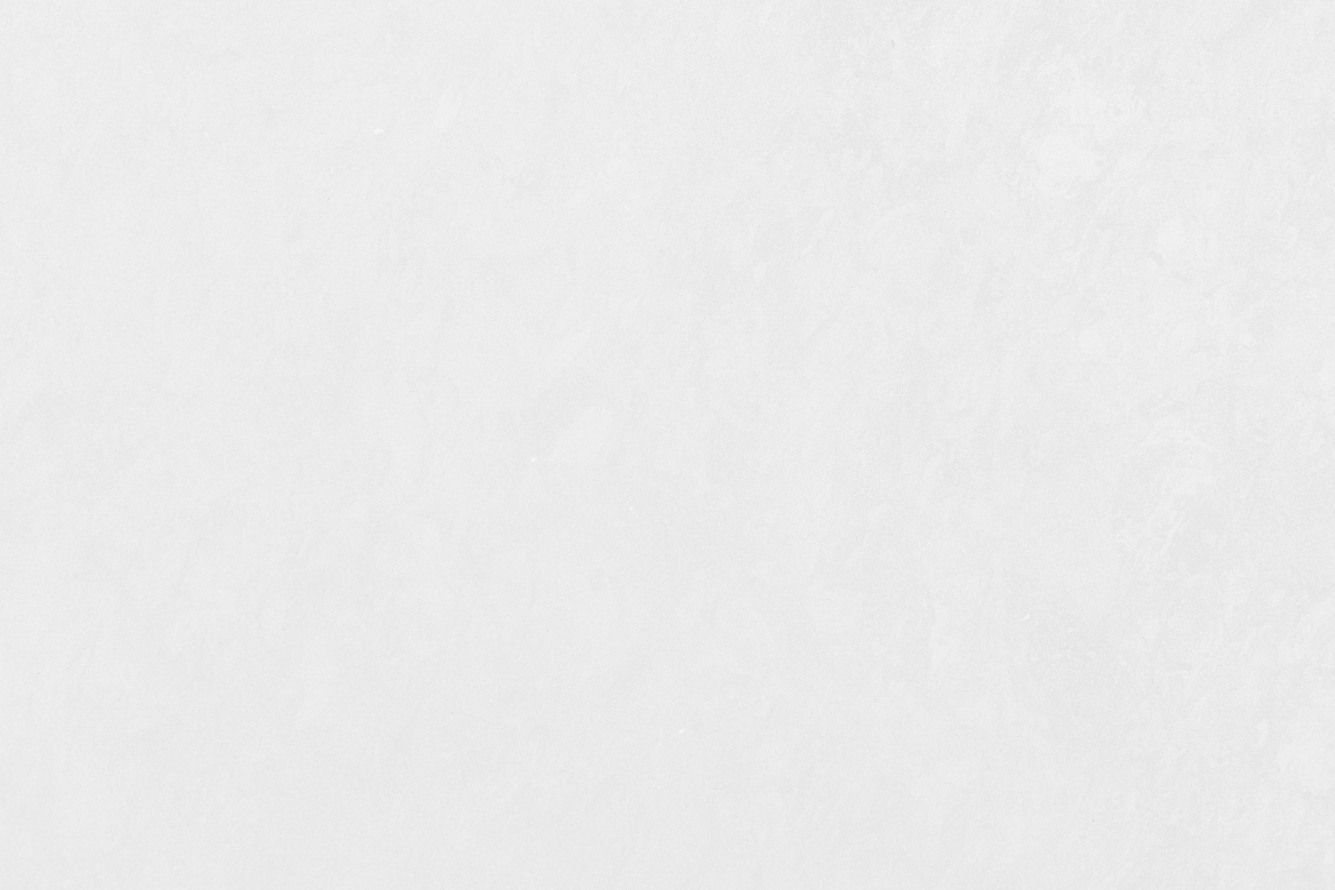
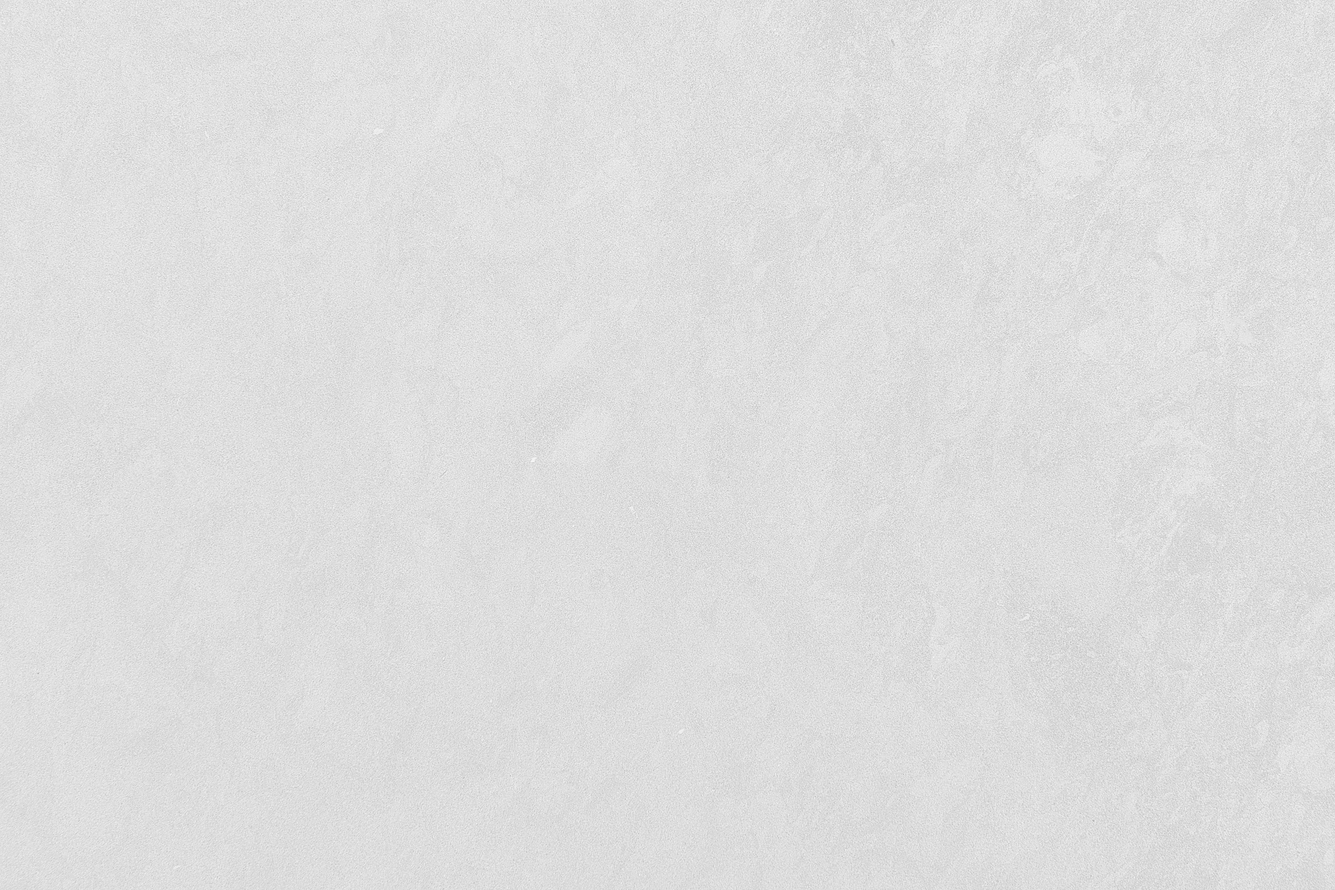
unified button sizing with tailwind and removed custom button css and enhanced stone texture definition on website

diff --git a/website/app/globals.css b/website/app/globals.css
@@ -831,46 +831,6 @@ h2[id] {
     margin-top: 8px;
     border-top: 1px solid #f4f4f5;
   }
-  .mobile-nav-actions .button-primary,
-  .mobile-nav-actions .mobile-region-button {
-    width: 100%;
-    height: 44px;
-    display: flex;
-    align-items: center;
-    justify-content: center;
-    gap: 8px;
-    border-radius: 999px;
-    font-size: 14px;
-    font-weight: 600;
-    text-decoration: none;
-    cursor: pointer;
-  }
-  .mobile-nav-actions .button-primary {
-    background: #000;
-    color: #fff;
-    border: none;
-  }
-  .mobile-nav-actions .button-primary:hover {
-    background: #27272a;
-  }
-  .mobile-nav-actions .button-primary:active {
-    transform: scale(0.98);
-  }
-  .mobile-nav-actions .mobile-region-button {
-    border: 1px solid #e4e4e7;
-    background: #fff;
-    color: #18181b;
-  }
-  .mobile-nav-actions .mobile-region-button:hover {
-    background: #f4f4f5;
-    border-color: #d4d4d8;
-  }
-  .mobile-nav-actions .mobile-region-button:active {
-    transform: scale(0.98);
-  }
-  .mobile-nav-actions .mobile-region-button svg {
-    flex-shrink: 0;
-  }
 }
 @media (max-width: 600px) {
   .qr-showcase-box {
@@ -882,9 +842,6 @@ h2[id] {
   }
   .hero-copy > p:first-child {
     font-size: 15px;
-  }
-  .hero-copy .button-primary {
-    width: 100%;
   }
   .flow-grid {
     grid-template-columns: minmax(0, 1fr);
@@ -1065,46 +1022,7 @@ h2[id] {
 .language-options label {
   cursor: pointer;
 }
-.region-dialog-footer {
-  display: flex;
-  gap: 12px;
-  padding: 16px 24px;
-  border-top: 1px solid #f4f4f5;
-  background: #fff;
-}
-.region-dialog-footer button {
-  flex: 1;
-  height: 44px;
-  border-radius: 999px;
-  font-size: 14px;
-  font-weight: 600;
-  cursor: pointer;
-  transition: all 150ms ease;
-}
-.region-dialog-footer .button-outline {
-  border: 1px solid #e4e4e7;
-  background: #fff;
-  color: #27272a;
-}
-.region-dialog-footer .button-outline:hover {
-  background: #f4f4f5;
-  border-color: #d4d4d8;
-}
-.region-dialog-footer .button-primary {
-  background: #000;
-  color: #fff;
-  border: none;
-}
-.region-dialog-footer .button-primary:hover {
-  background: #27272a;
-}
-.region-dialog-footer .button-primary:active {
-  transform: scale(0.98);
-}
 @media (max-width: 440px) {
-  .region-dialog-footer {
-    flex-direction: column-reverse;
-  }
   .language-options {
     grid-template-columns: 1fr;
   }
@@ -1240,18 +1158,6 @@ h2[id] {
   .header-actions {
     gap: 6px;
   }
-  .header-actions .button-primary {
-    padding: 0 10px;
-    font-size: 13px;
-    height: 40px;
-    min-height: 40px;
-  }
-  .header-actions .button-outline {
-    width: 40px;
-    height: 40px;
-    min-height: 40px;
-    padding: 0;
-  }
   .icon-control {
     width: 40px;
     height: 40px;
@@ -1289,13 +1195,6 @@ h2[id] {
 .site-footer .closing-mascot,
 .site-footer .footer-bottom img {
   filter: brightness(0) invert(1);
-}
-.site-footer .button-primary {
-  background: #fff;
-  color: #000;
-}
-.site-footer .button-primary:hover {
-  background: #e6e6e6;
 }
 .site-footer :focus-visible,
 .setup-section :focus-visible {
@@ -1381,8 +1280,5 @@ h2[id] {
   }
   .hero-qr {
     margin-block: 10px;
-  }
-  .header-actions .button-outline {
-    gap: 6px;
   }
 }

diff --git a/website/components/Header.tsx b/website/components/Header.tsx
@@ -99,34 +99,40 @@ export function Header() {
             })}
           </div>
           <div className="mobile-nav-actions">
-            <a href={t("signInUrl")} className="button-primary">
-              {t("signIn")}
-              <ArrowUpRight size={16} aria-hidden="true" />
+            <a
+              href={t("signInUrl")}
+              className="w-full inline-flex items-center justify-center gap-2.5 h-11 px-5 rounded-full text-sm font-semibold transition-all active:scale-[0.98] shrink-0 bg-black text-white hover:bg-zinc-800 border border-black"
+            >
+              <span>{t("signIn")}</span>
+              <ArrowUpRight size={16} className="shrink-0" aria-hidden="true" />
             </a>
             <button
-              className="button-outline mobile-region-button"
+              className="w-full inline-flex items-center justify-center gap-2 h-11 px-5 rounded-full text-sm font-semibold border border-[var(--site-line)] hover:bg-[var(--site-soft)] transition-all active:scale-[0.98] shrink-0"
               aria-label={t("regionSelectorTitle")}
               onClick={() => {
                 setMenuOpen(false);
                 setIsModalOpen(true);
               }}
             >
-              <Globe size={18} aria-hidden="true" />
+              <Globe size={18} className="shrink-0" aria-hidden="true" />
               <span>{t("regionDisplay")}</span>
             </button>
           </div>
         </nav>
         <div className="header-actions">
-          <a href={t("signInUrl")} className="button-primary desktop-only">
-            {t("signIn")}
-            <ArrowUpRight size={16} aria-hidden="true" />
+          <a
+            href={t("signInUrl")}
+            className="inline-flex items-center justify-center gap-2.5 h-11 px-5 rounded-full text-sm font-semibold transition-all active:scale-[0.98] shrink-0 bg-black text-white hover:bg-zinc-800 border border-black desktop-only"
+          >
+            <span>{t("signIn")}</span>
+            <ArrowUpRight size={16} className="shrink-0" aria-hidden="true" />
           </a>
           <button
-            className="button-outline header-region desktop-only"
+            className="inline-flex items-center justify-center gap-2 h-11 px-5 rounded-full text-sm font-semibold border border-[var(--site-line)] hover:bg-[var(--site-soft)] transition-all active:scale-[0.98] shrink-0 header-region desktop-only"
             aria-label={t("regionSelectorTitle")}
             onClick={() => setIsModalOpen(true)}
           >
-            <Globe size={18} aria-hidden="true" />
+            <Globe size={18} className="shrink-0" aria-hidden="true" />
             <span className="link-label">{t("regionDisplay")}</span>
           </button>
           <button

diff --git a/website/components/RegisterCta.tsx b/website/components/RegisterCta.tsx
@@ -1,12 +1,35 @@
 "use client";
+
 import { ArrowUpRight } from "@phosphor-icons/react";
 import { useTranslation } from "@/lib/i18n";
-export function RegisterCta() {
+
+interface RegisterCtaProps {
+  variant?: "default" | "inverse";
+  className?: string;
+}
+
+export function RegisterCta({
+  variant = "default",
+  className = "",
+}: RegisterCtaProps = {}) {
   const { t } = useTranslation();
+
+  const baseStyles =
+    "inline-flex items-center justify-center gap-2.5 h-11 px-5 rounded-full text-sm font-semibold transition-all active:scale-[0.98] shrink-0 select-none";
+
+  const colorStyles =
+    variant === "inverse"
+      ? "bg-white text-black hover:bg-zinc-200 border border-white"
+      : "bg-black text-white hover:bg-zinc-800 border border-black";
+
   return (
-    <a href={t("registerUrl")} className="button-primary">
-      {t("registerCta")}
-      <ArrowUpRight size={16} aria-hidden="true" />
+    <a
+      href={t("registerUrl")}
+      className={`${baseStyles} ${colorStyles} ${className}`.trim()}
+    >
+      <span>{t("registerCta")}</span>
+      <ArrowUpRight size={16} className="shrink-0" aria-hidden="true" />
     </a>
   );
 }
+

diff --git a/website/components/RegionLanguageModal.tsx b/website/components/RegionLanguageModal.tsx
@@ -124,13 +124,17 @@ export function RegionLanguageModal({
             </div>
           </fieldset>
         </div>
-        <footer className="region-dialog-footer">
-          <button type="button" className="button-outline" onClick={onClose}>
+        <footer className="px-5 sm:px-6 py-3.5 sm:py-4 border-t border-zinc-100 bg-white shrink-0 flex flex-col-reverse sm:flex-row items-center justify-end gap-2.5 sm:gap-3 w-full">
+          <button
+            type="button"
+            className="w-full sm:flex-1 h-11 rounded-full border border-zinc-200 text-zinc-700 hover:bg-zinc-50 font-semibold cursor-pointer transition-all active:scale-[0.98] text-sm"
+            onClick={onClose}
+          >
             {t("cancel")}
           </button>
           <button
             type="button"
-            className="button-primary"
+            className="w-full sm:flex-1 h-11 rounded-full bg-black text-white hover:bg-zinc-800 font-semibold cursor-pointer transition-all active:scale-[0.98] text-sm"
             onClick={handleApply}
           >
             {t("saveAndContinue")}

diff --git a/website/app/not-found.tsx b/website/app/not-found.tsx
@@ -10,8 +10,11 @@ export default function NotFound() {
       <main id="content" className="not-found page-width flex-1 flex flex-col items-start justify-center">
         <h1>{t("notFoundTitle")}</h1>
         <p>{t("notFoundText")}</p>
-        <Link className="button-primary" href={t("homeUrl")}>
-          {t("backHome")}
+        <Link
+          className="inline-flex items-center justify-center gap-2.5 h-11 px-5 rounded-full text-sm font-semibold transition-all active:scale-[0.98] shrink-0 bg-black text-white hover:bg-zinc-800 border border-black"
+          href={t("homeUrl")}
+        >
+          <span>{t("backHome")}</span>
         </Link>
       </main>
       <SiteFooter variant="minimal" />

diff --git a/website/components/SiteFooter.tsx b/website/components/SiteFooter.tsx
@@ -71,7 +71,7 @@ export function SiteFooter({
             <h2>{t("closingTitle")}</h2>
           </div>
           <div className="footer-closing-cta flex items-center">
-            <RegisterCta />
+            <RegisterCta variant="inverse" />
           </div>
           <div className="footer-contact flex flex-col items-end text-right justify-self-end gap-2 pt-2 max-md:pt-0">
             <h3 className="contact-label text-2xl font-medium m-0 leading-[1.1]">{t("contactLabel")}</h3>
